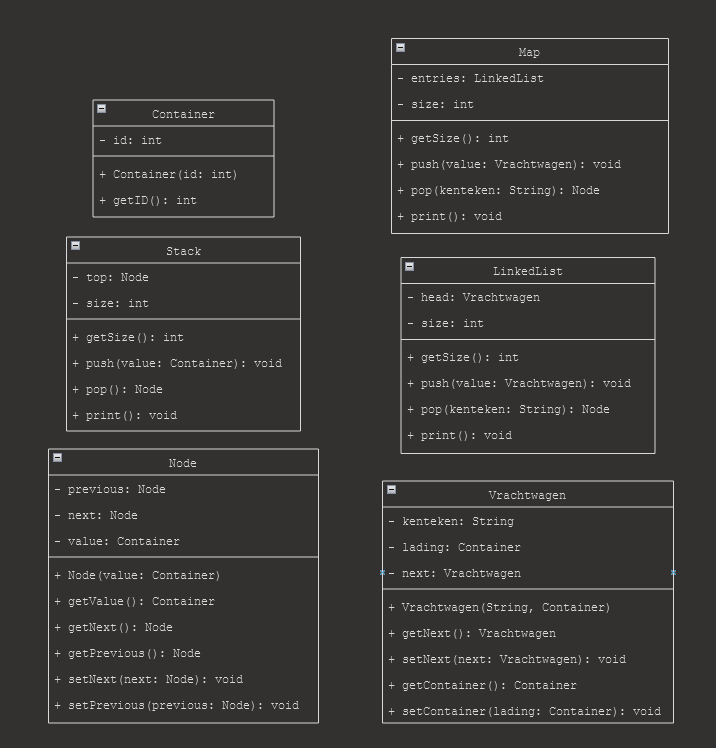
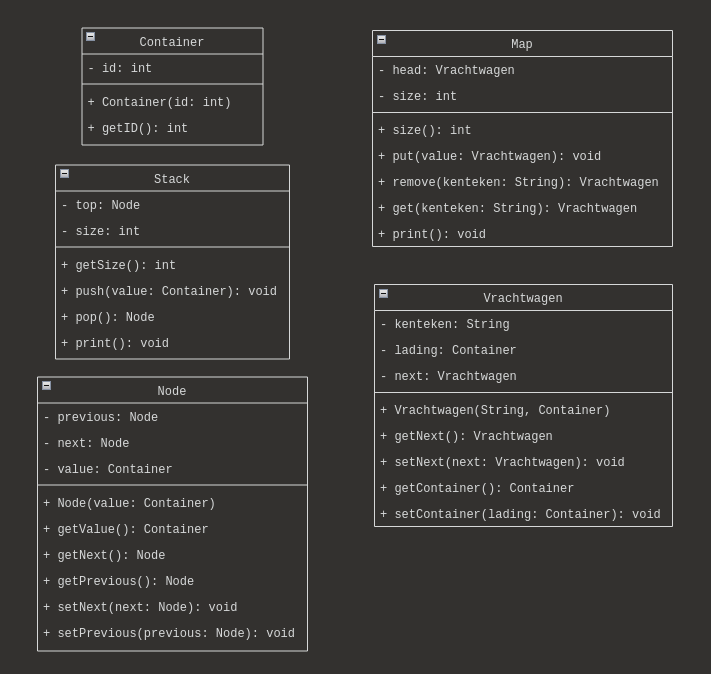
made it make more sense

diff --git a/java3/9/Map.java b/java3/9/Map.java
@@ -1,8 +1,12 @@
-class LinkedList {
+class Map {
     private Vrachtwagen head;
     private int size;
 
-    public void push(Vrachtwagen value) {
+    public int size() {
+        return this.size;
+    }
+
+    public void put(Vrachtwagen value) {
         Vrachtwagen newNode = value;
         if (head == null) {    // Of: this.size == 0
             head = newNode;
@@ -10,25 +14,41 @@ class LinkedList {
         else {
             Vrachtwagen current = head;
             while (current.getNext() != null) {
-                if (current.getNext().getKenteken().equals(value.getKenteken())) {
+                if (current.getKenteken().equals(value.getKenteken())) {
                     System.out.println("Kenteken already exists! Aborting push!");
+                    return;
                 }
+                current = current.getNext();
             }
             current.setNext(newNode);
         }  
+        this.size++;
     }
 
-    public Vrachtwagen pop(String kenteken) {
+    public Vrachtwagen remove(String kenteken) {
         Vrachtwagen current = head;
         while (current.getNext() != null) {
             if (current.getNext().getKenteken().equals(value.getKenteken())) {
-                Vrachtwagen returnVal = current.getNext().getValue();
+                Vrachtwagen returnVal = current.getNext();
                 current.setNext(current.getNext().getNext());
+                returnVal.setNext(null);
+                this.size--;
                 return returnVal;
             }
             current = current.getNext();
         }
         return null; 
+    }
+
+    public Vrachtwagen get(String kenteken) {
+        Node current = head;
+        while (current.getNext() != null) {
+            if (current.getNext().getValue().equals(value.getKenteken())) {
+                return current.getNext().getValue();
+            }
+            current = current.getNext();
+        }
+        return null;
     }
 
     public void print() {

diff --git a/java3/9/App.java b/java3/9/App.java
@@ -1,5 +1,5 @@
 /**
- * TINPRO04-3 Les 8 // Stack and Queue, non-generic
+ * TINPRO04-3 Les 9 // Map (implemented using LinkedList), non-generic
  * 20240217 // m.skelo@hr.nl
  * 
  */
